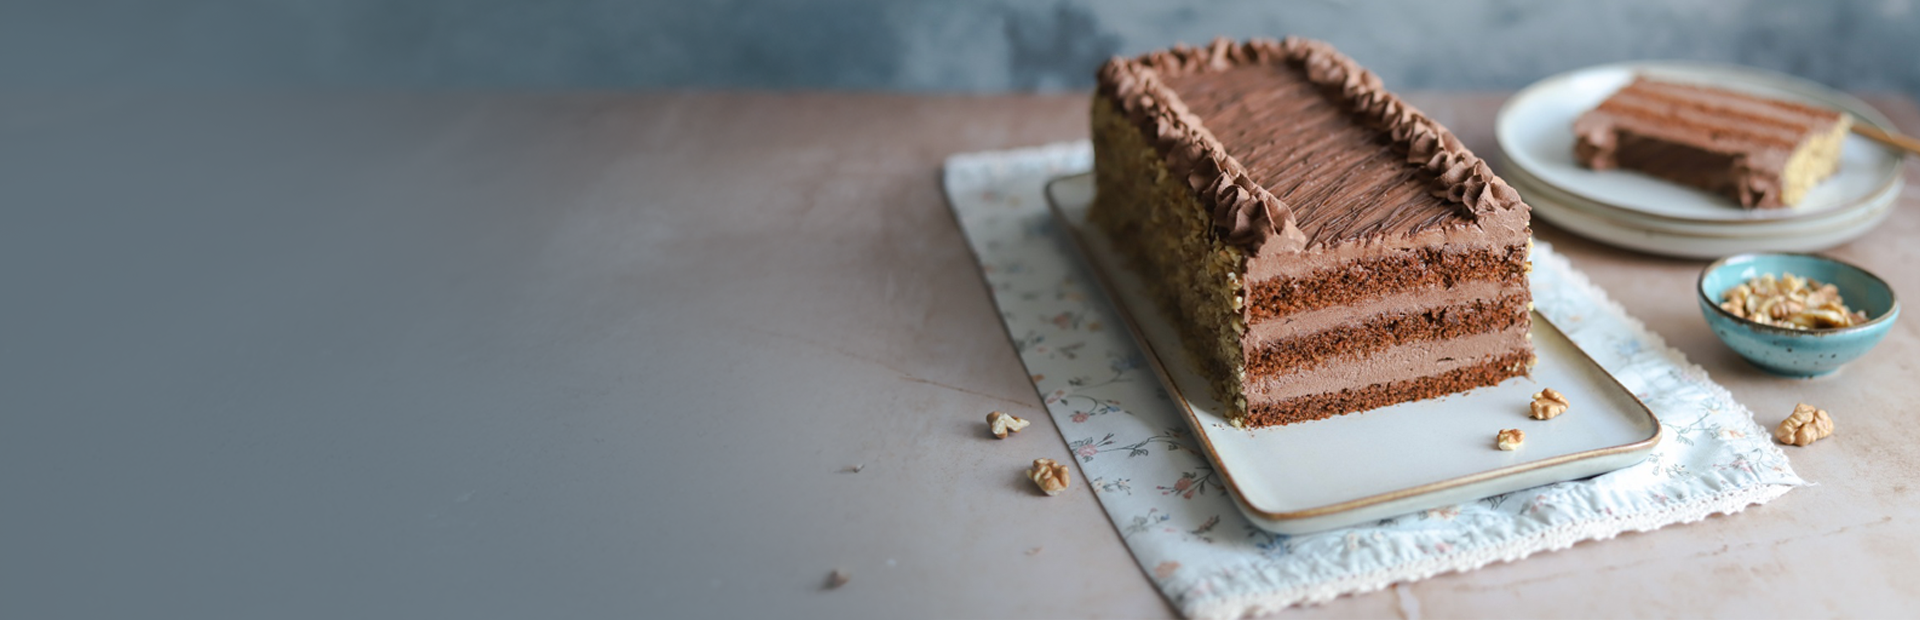
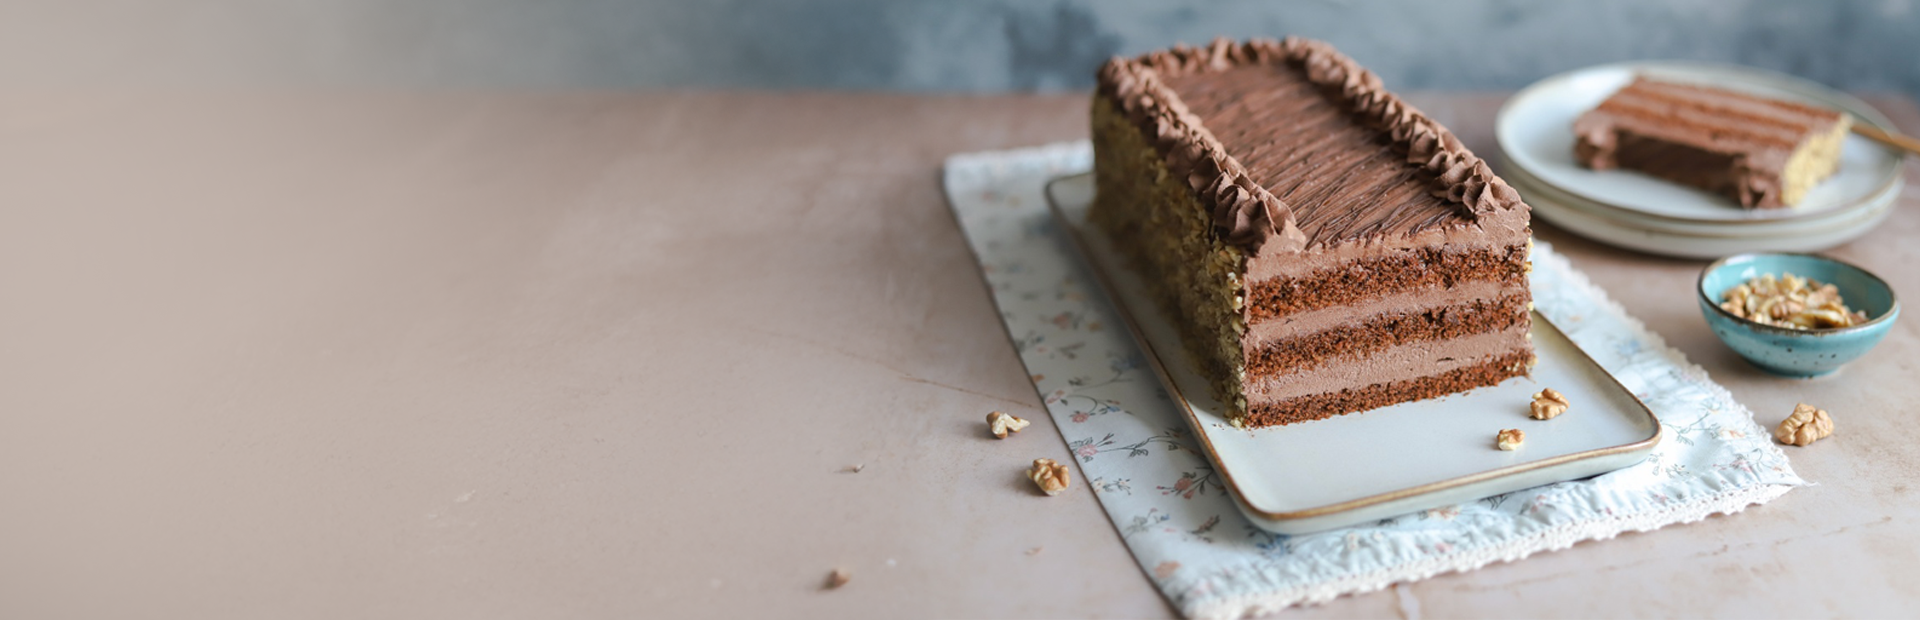
promene

diff --git a/public/css/style.css b/public/css/style.css
@@ -134,7 +134,7 @@ body {
 }
 
 #main-banner {
-    background-image: linear-gradient(rgba(0, 0, 0, 0.5), rgba(0, 0, 0, 0.5)), url("../images/konkurs-desktop-1920x620-2.png");
+    background-image: linear-gradient(rgba(0, 0, 0, 0.1), rgba(0, 0, 0, 0.1)), url("../images/konkurs-desktop-1920x620-2.png");
     background-size: cover;
     background-position: center right;
 }
